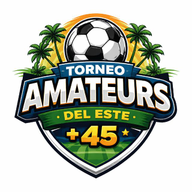
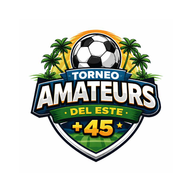
finish

diff --git a/scripts/generate-icons.ts b/scripts/generate-icons.ts
@@ -8,9 +8,10 @@
  *   public/apple-touch-icon.png  — 180x180 (iOS, 80% safe-zone)
  *   src/app/favicon.ico          — 32x32 legacy favicon
  *
- * Maskable and iOS icons get a transparent safe-zone margin so the logo is
- * not cropped by launcher masks (Google recommends content inside the inner
- * 72%; Apple masks with rounded corners).
+ * Maskable and iOS icons get a white safe-zone margin so the logo is
+ * not cropped by launcher masks and no dark/transparent corners show
+ * (Google recommends content inside the inner 72%; Apple masks with
+ * rounded corners).
  *
  * Usage: pnpm icons:generate
  */
@@ -24,13 +25,13 @@ const OUT_DIR = path.join(process.cwd(), "public")
 const APP_DIR = path.join(process.cwd(), "src", "app")
 
 const TARGETS = [
-  { file: "icon-192.png", size: 192, scale: 1 },
-  { file: "icon-512.png", size: 512, scale: 1 },
+  { file: "icon-192.png", size: 192, scale: 0.8 },
+  { file: "icon-512.png", size: 512, scale: 0.8 },
   { file: "icon-maskable-512.png", size: 512, scale: 0.8 },
   { file: "apple-touch-icon.png", size: 180, scale: 0.91 },
 ]
 
-/** Resize to `size`, keeping the logo inside a transparent safe-zone when scale < 1. */
+/** Resize to `size`, keeping the logo inside a white safe-zone when scale < 1. */
 async function buildIcon(source: Buffer, size: number, scale: number): Promise<Buffer> {
   if (scale >= 1) {
     return sharp(source).resize(size, size).ensureAlpha().png().toBuffer()
@@ -39,7 +40,7 @@ async function buildIcon(source: Buffer, size: number, scale: number): Promise<B
   const logo = await sharp(source).resize(inner, inner).ensureAlpha().png().toBuffer()
   const offset = Math.round((size - inner) / 2)
   return sharp({
-    create: { width: size, height: size, channels: 4, background: { r: 0, g: 0, b: 0, alpha: 0 } },
+    create: { width: size, height: size, channels: 4, background: { r: 255, g: 255, b: 255, alpha: 1 } },
   })
     .composite([{ input: logo, left: offset, top: offset }])
     .png()
